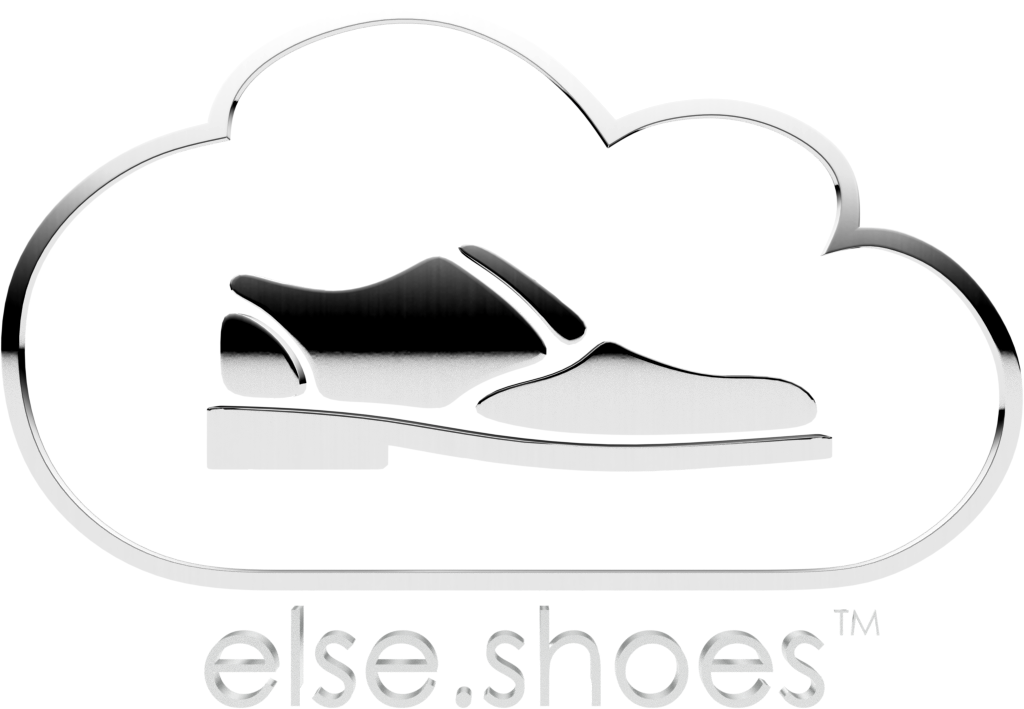
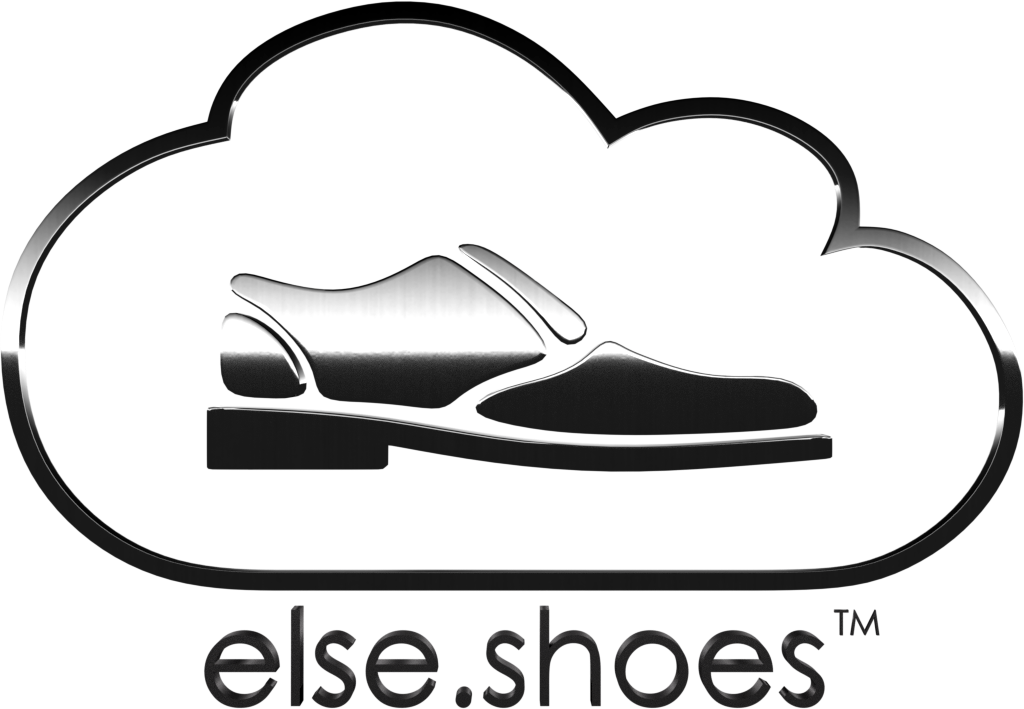
accenture lab style fixes

Changed region(s): [[0.0, 0.0, 1.0, 1.0], [0.1875, 0.3413, 0.8125, 0.6827]]

diff --git a/src/mainscreen/css/_configurator.less b/src/mainscreen/css/_configurator.less
@@ -393,18 +393,37 @@
     .flex-container();
     .flex-direction(row);
     position: absolute;
-    left: 90%;
     border: solid 1px rgba(0, 255, 255, 0.651);
-    border-radius: 4px;
+    background-color: rgba(12,88,128,0.95)!important;
+    box-shadow: black 2px 2px 32px;
+    z-index: 9999;
+    padding: 5px;
+    left: -11px;
+    top: -6px;
+    border-radius: 54px;
     .blue-block();
+    .structure-item{
+      height: 5rem;
+      width: 5rem;
+      /* margin: .5rem; */
+      position: relative;
+      display: flex;
+      flex-direction: column;
+      align-items: center;
+      background-size: 80%;
+      background-position-x: center;
+      background-repeat: no-repeat;
+      border-radius: inherit;
+      justify-content: flex-start;
+      padding-top: 70px;
+      span.name{
+        font-size: 0.65rem!important;
+      }
+    }
   }
   .structure-item {
-    border-radius: 3px;
-    margin: 3px;
-    height: 60px;
-    width: 80px;
     &.active {
-      .box-shadow(inset 0 0 0 2px #00ffff);
+      .box-shadow(0 0 0 2px #00ffff);
     }
   }
   &.materials-color-block {

diff --git a/src/remotecontrol/index.html b/src/remotecontrol/index.html
@@ -97,6 +97,7 @@
                 <div class="col header-col header-start">
                     <div class="logo header-logo">
                         <img class="stgallen-hidden logo-else-shoes" src="img/logo-else-shoes-blue.png"/>
+                        <img class="dark-silver-logo" src="img/chromium_else.png"/>
                     </div>
                 </div>
                 <div class="col header-col header-end">
@@ -148,7 +149,7 @@
         <div class="container" id="product-list-screen">
             <div class="start-screen virtual-catalog">
                 <div class="logo-section">
-                    <img class="stgallen-hidden logo" src="img/chromium_else.png">
+                    <img class="logo" src="img/chromium_else.png">
                     <span>Virtual catalogue</span>
                     <div class="logout-block" @click="logOutFromTheStore()">
                         <span class="logout-text">Logout from the store</span>

diff --git a/src/remotecontrol/css/_accenture-customer-theme.less b/src/remotecontrol/css/_accenture-customer-theme.less
@@ -1,2 +1,37 @@
-.store_25{
+.store_25 {
+  .session-code-screen, .page-staff-login, .page-session-code, #product-list-screen {
+    background: url(../img/accenture/bcgd-app.png) !important;
+    background-size: contain;
+  }
+  .page-session-code{
+    .session-code label{
+      color: #000000;
+      text-shadow: none;
+    }
+  }
+  .virtual-catalog {
+    .logo-section span {
+      color: BLACK;
+      margin-left: 24px;
+    }
+    .dark-silver-logo {
+      display: block;
+    }
+    .stgallen-hidden {
+      display: none;
+    }
+    .logo-logout {
+      display: none;
+    }
+    .logout-block{
+      background: url("../img/store-logout.png");
+      background-position-x: right;
+      background-position-y: center;
+      background-size: 25px;
+      background-repeat: no-repeat;
+    }
+    span.logout-text{
+      margin-right: 33px;
+    }
+  }
 }

diff --git a/src/remotecontrol/css/_catalogue.less b/src/remotecontrol/css/_catalogue.less
@@ -73,7 +73,7 @@
             .flex-container();
             .align-items(center);
             .logout-text{
-                margin-right: 15px;
+                //margin-right: 15px;
             }
             .logo-logout{
                 width: auto;

diff --git a/src/remotecontrol/css/_vr-theme.less b/src/remotecontrol/css/_vr-theme.less
@@ -11,6 +11,9 @@
     color: white;
     margin-left: 24px;
   }
+  span.logout-text{
+    margin-right: 15px;
+  }
 }
 
 .page-store-selection{

diff --git a/src/remotecontrol/css/_common.less b/src/remotecontrol/css/_common.less
@@ -770,3 +770,7 @@ h6 {
 .mat_suede_blue-man {
   display: none!important;
 }
+
+.dark-silver-logo{
+  display: none;
+}
